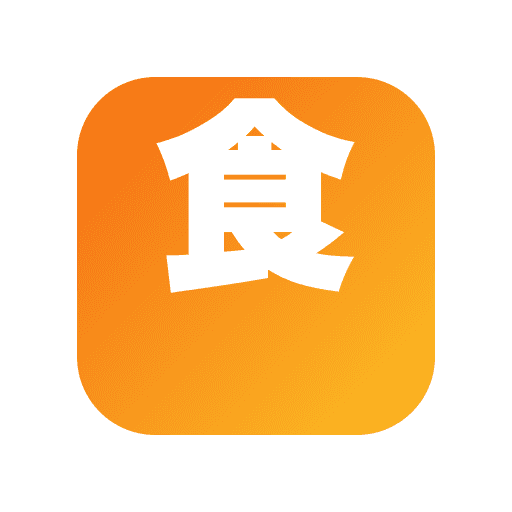
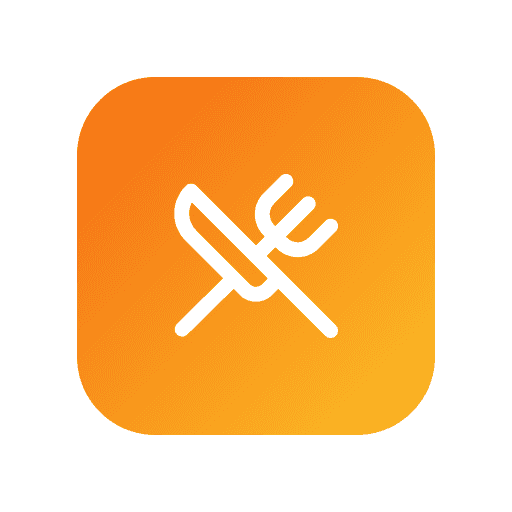
アイコンの統一化

Changed region(s): [[0.3125, 0.1875, 0.6875, 0.6562]]

diff --git a/src/index.css b/src/index.css
@@ -11,7 +11,7 @@
     --card-foreground: 24 30% 12%;
     --popover: 0 0% 100%;
     --popover-foreground: 24 30% 12%;
-    --primary: 18 88% 52%; /* vivid orange */
+    --primary: 21 91% 52%; /* vivid orange ≒ #f56a14 */
     --primary-foreground: 0 0% 100%;
     --secondary: 30 60% 95%; /* warm peach */
     --secondary-foreground: 24 35% 22%;

diff --git a/README.md b/README.md
@@ -178,6 +178,7 @@ npm run dev             # http://localhost:5173
 | `npm run build` | 本番ビルド（手元での確認用） |
 | `npm run preview` | 本番ビルドのローカルプレビュー |
 | `npm run db:types` | Supabase の型を再生成（ローカル DB 起動中前提） |
+| `npm run pwa:icons` | `public/favicon.svg` から PWA 用アイコン PNG を再生成 |
 | `supabase db reset` | マイグレーションを全適用し直す |
 | `supabase stop` | ローカル Supabase を停止 |
 
